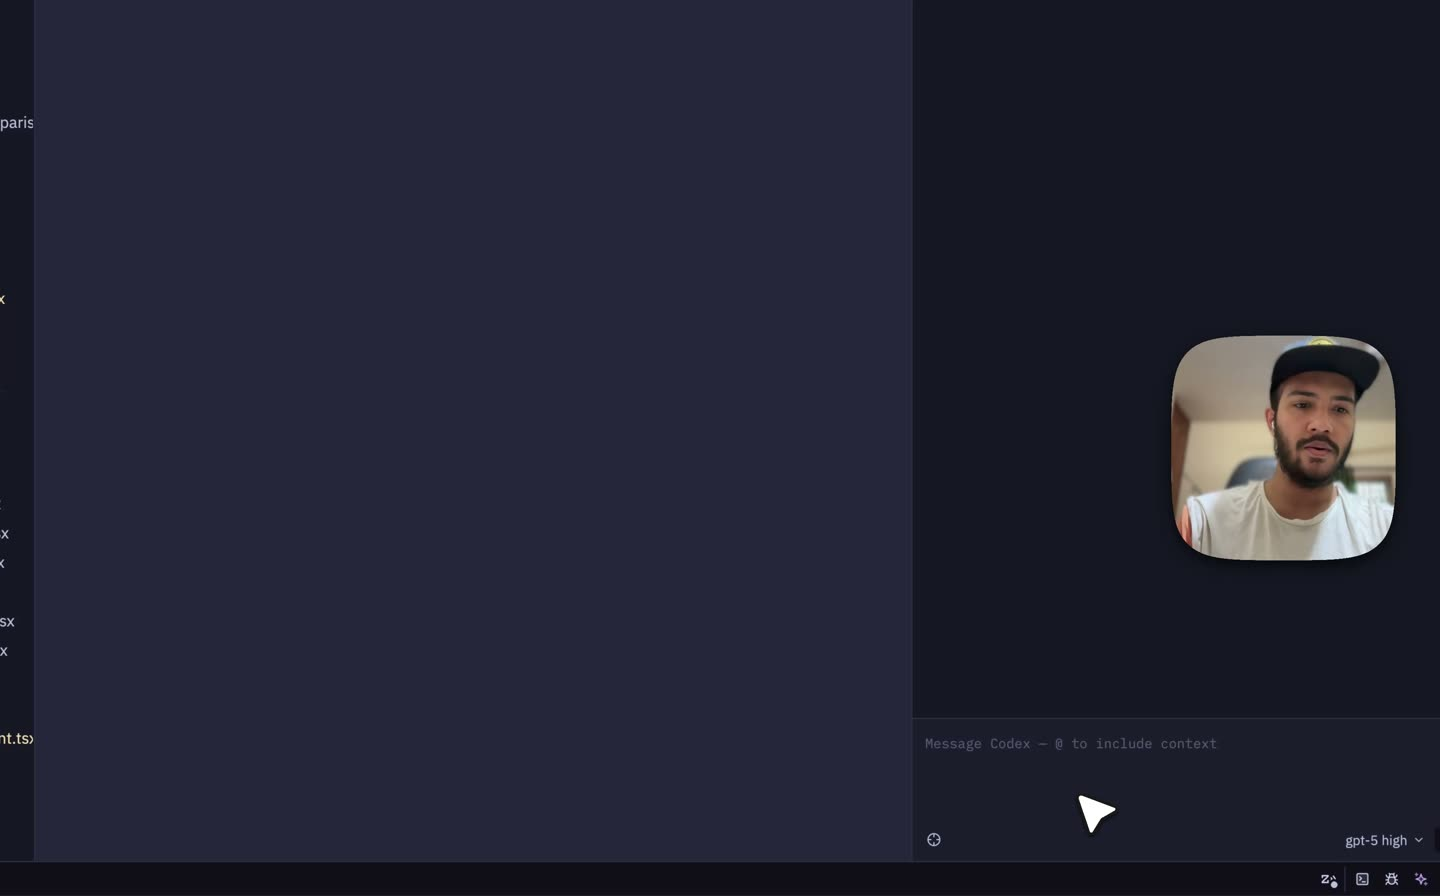
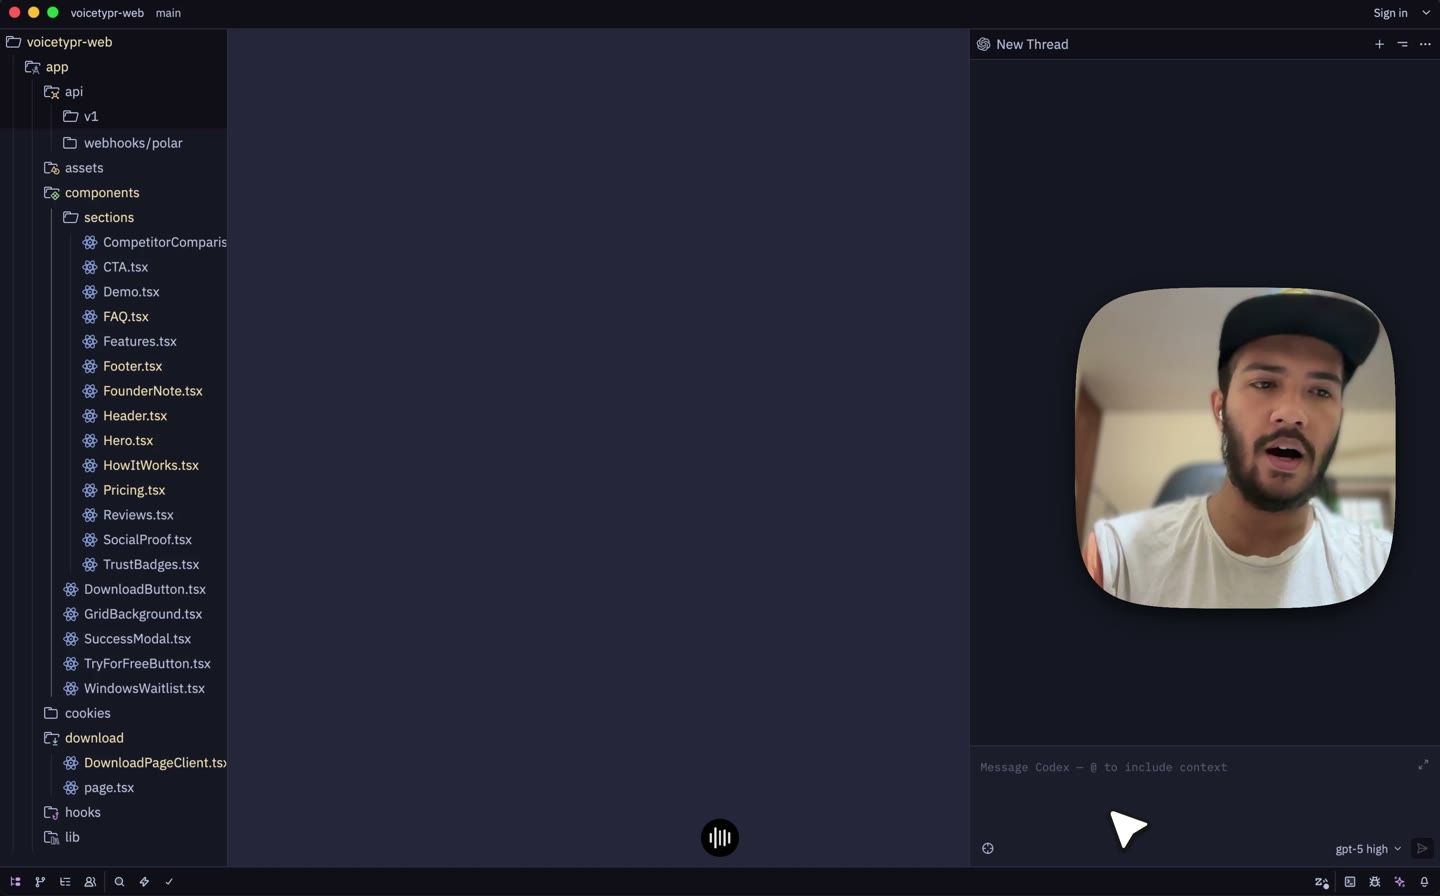
polish(landing): content accuracy + responsive fixes
Content fixes (verified against desktop v1.12.1 + SALES_SPRINT_PLAN.md):
- Refund window: 30-day → 7-day (matches original PricingCards.tsx and
  current store policy) across PricingCards, Pricing lede, FAQ answer
- Compare table: SuperWhisper price $120/yr → $85/yr (actual annual price),
  2-year cost +$190 → +$120, savings range $70–$450 → $35–$450 / $190–$450+ → $120–$550+
- CTA meta: remove invented '~28 MB' (real installers are 55–82 MB, size varies
  by platform); replace with 'free lifetime updates'
- Strip em-dashes from section ledes, Outcomes card body, Features card bodies,
  HowItWorks step descriptions (AI-slop cleanup)

Font: revert Fraunces → Instrument Serif (prototype original; better for
founder/productivity audience than chunky Fraunces). Drop Fraunces-specific
font-variation-settings + bumped weight CSS.

Demo video: remove autoPlay/loop, add native controls + 'Watch on YouTube'
link below for full walkthrough. Keep muted/playsInline/poster.

Responsive (mobile 390px):
- Hero h1: 54/96px fixed → clamp(40px, 9vw, 96px) fluid — fits without orphan
  wraps at 390px, scales smoothly to 96px at desktop
- Day-in-Life timeline: overflow-hidden + min-w-0 on bar parent to contain
  chunks that previously pushed body scrollWidth to 564px
- Compare table: overflow-x-auto wrapper + min-w-[640px] inner so 5-col grid
  scrolls horizontally within the dark card on mobile; reduced card padding
  p-10/14 → p-6/10/14 responsive
[…]

diff --git a/app/components/sections/Demo.tsx b/app/components/sections/Demo.tsx
@@ -2,12 +2,15 @@ export default function Demo() {
   return (
     <section className="ed-section pt-12 md:pt-16 pb-0">
       <div className="ed-container">
-        <div className="ed-eyebrow ed-eyebrow-center mb-6">see it work &middot; 20 seconds</div>
+        <div className="ed-eyebrow ed-eyebrow-center mb-6">
+          see it work &middot; 20 seconds
+        </div>
+
         <div className="mx-auto max-w-5xl">
           <div
-            className="relative aspect-[8/5] overflow-hidden rounded-[28px] border border-editorial-line p-4 md:p-5 shadow-[0_30px_60px_-30px_rgba(61,34,12,0.28),0_2px_8px_-2px_rgba(0,0,0,0.06),inset_0_1px_0_#fff]"
+            className="relative aspect-[8/5] overflow-hidden rounded-[28px] border border-editorial-line p-4 md:p-5 shadow-[0_30px_60px_-30px_rgba(0,0,0,0.18),0_2px_8px_-2px_rgba(0,0,0,0.06),inset_0_1px_0_#fff]"
             style={{
-              background: "linear-gradient(to bottom, #ffffff, #f5ede0)",
+              background: "linear-gradient(to bottom, #ffffff, #f3f3f0)",
             }}
           >
             {/* Accent glow */}
@@ -16,19 +19,18 @@ export default function Demo() {
               className="pointer-events-none absolute inset-x-0 -bottom-[25%] h-[85%]"
               style={{
                 background:
-                  "radial-gradient(ellipse at 50% 100%, color-mix(in oklab, var(--color-editorial-accent) 30%, transparent), transparent 65%)",
+                  "radial-gradient(ellipse at 50% 100%, color-mix(in oklab, var(--color-editorial-accent) 28%, transparent), transparent 65%)",
               }}
             />
 
             <video
-              autoPlay
+              controls
               muted
-              loop
               playsInline
-              preload="metadata"
+              preload="none"
               poster="/voicetypr-demo-poster.jpg"
               aria-label="VoiceTypr demo — press hotkey, speak, text pastes at the cursor"
-              className="relative h-full w-full rounded-[22px] border border-editorial-line object-cover shadow-[0_6px_14px_-6px_rgba(0,0,0,0.1)]"
+              className="relative h-full w-full rounded-[22px] border border-editorial-line bg-editorial-ink object-cover shadow-[0_6px_14px_-6px_rgba(0,0,0,0.1)]"
             >
               <source
                 src="https://assets.voicetypr.com/voicetypr-ph-2.mp4#t=0,20"
@@ -36,6 +38,19 @@ export default function Demo() {
               />
             </video>
           </div>
+
+          <p className="mt-5 text-center font-mono text-[11px] uppercase tracking-[0.14em] text-editorial-ink-3">
+            want the full walkthrough?{" "}
+            <a
+              href="https://youtu.be/L_yU879QbE4"
+              target="_blank"
+              rel="noopener noreferrer"
+              data-umami-event="demo-full-walkthrough-click"
+              className="text-editorial-ink-2 underline underline-offset-4 transition-colors hover:text-editorial-accent"
+            >
+              watch on youtube &rarr;
+            </a>
+          </p>
         </div>
       </div>
     </section>

diff --git a/app/components/sections/Compare.tsx b/app/components/sections/Compare.tsx
@@ -4,7 +4,7 @@ export default function Compare() {
   const rows: { c: string; v: string[] }[] = [
     {
       c: "Price",
-      v: ["$180 / yr", "$120 / yr", "$500 once + upgrades", "from $50 \u00B7 once"],
+      v: ["$180 / yr", "$85 / yr", "$500 once + upgrades", "from $50 \u00B7 once"],
     },
     {
       c: "Platforms",
@@ -30,13 +30,13 @@ export default function Compare() {
 
   const footer: { c: string; v: string[] } = {
     c: "2-year cost vs VoiceTypr",
-    v: ["+$310", "+$190", "+$450 (plus upgrades)", "baseline \u00B7 from $50"],
+    v: ["+$310", "+$120", "+$450 (plus upgrades)", "baseline \u00B7 from $50"],
   };
 
   return (
     <section className="ed-section">
       <div className="ed-container">
-        <div className="bg-editorial-ink text-white rounded-[28px] p-10 md:p-14">
+        <div className="bg-editorial-ink text-white rounded-[28px] p-6 sm:p-10 md:p-14">
           <div
             className="ed-eyebrow"
             style={{ color: "rgba(255,255,255,0.5)" }}
@@ -52,7 +52,8 @@ export default function Compare() {
           </p>
 
           {/* VS table */}
-          <div className="rounded-[18px] overflow-hidden border border-white/10 bg-white/[0.03] text-[14.5px] grid grid-cols-[1.4fr_1fr_1fr_1fr_1.15fr]">
+          <div className="overflow-x-auto -mx-4 sm:mx-0">
+            <div className="min-w-[640px] rounded-[18px] overflow-hidden border border-white/10 bg-white/[0.03] text-[14.5px] grid grid-cols-[1.4fr_1fr_1fr_1fr_1.15fr] mx-4 sm:mx-0">
             {/* Header row — uses display:contents so grid children align */}
             <div className="contents">
               {headers.map((h, i) => (
@@ -112,14 +113,15 @@ export default function Compare() {
                 {footer.v[3]}
               </div>
             </div>
+            </div>
           </div>
 
           {/* Savings summary */}
           <p className="text-center mt-6 text-sm text-white/70">
             After 1 year:{" "}
-            <strong className="text-[#9dd6af]">save $70&ndash;$450</strong>{" "}
+            <strong className="text-[#9dd6af]">save $35&ndash;$450</strong>{" "}
             &nbsp;&middot;&nbsp; After 2 years:{" "}
-            <strong className="text-[#9dd6af]">save $190&ndash;$450+</strong>
+            <strong className="text-[#9dd6af]">save $120&ndash;$550+</strong>
           </p>
         </div>
       </div>

diff --git a/app/components/sections/Features.tsx b/app/components/sections/Features.tsx
@@ -59,8 +59,8 @@ export default function Features() {
             </h3>
             <p className="text-editorial-ink-2 text-[14.5px] leading-[1.55]">
               English, Spanish, French, German, Italian, Portuguese, Dutch,
-              Swedish, Polish, Japanese, Mandarin, Hindi, Arabic, Korean &mdash;
-              and 85 more. Pick a model that supports your language; VoiceTypr
+              Swedish, Polish, Japanese, Mandarin, Hindi, Arabic, Korean,
+              plus 85 more. Pick a model that supports your language; VoiceTypr
               handles the rest.
             </p>
             <div className="mt-auto pt-5">
@@ -102,7 +102,7 @@ export default function Features() {
               Multiple models, your call.
             </h3>
             <p className="text-editorial-ink-2 text-[14.5px] leading-[1.55]">
-              Whisper base, large-v3, and 6×-faster turbo — plus Parakeet on Mac. Pick per session.
+              Whisper base, large-v3, and 6×-faster turbo. Plus Parakeet on Mac. Pick per session.
             </p>
             <div className="mt-auto pt-5">
               <div className="flex flex-col gap-1 font-mono text-xs text-editorial-ink-2 leading-[1.8]">
@@ -127,7 +127,7 @@ export default function Features() {
               4 AI presets, on tap.
             </h3>
             <p className="text-editorial-ink-2 text-[14.5px] leading-[1.55]">
-              Default, Prompts, Email, Commit &mdash; same voice, smarter tone out.
+              Default, Prompts, Email, Commit. Same voice, smarter tone out.
               Powered by Gemini, OpenAI, or any OpenAI-compatible API (Groq, Ollama).
             </p>
             <div className="mt-auto pt-5">
@@ -156,8 +156,8 @@ export default function Features() {
             </h3>
             <p className="text-editorial-ink-2 text-[14.5px] leading-[1.55]">
               ChatGPT, Claude, Cursor, VS Code, Notion, Slack, Linear, Gmail,
-              Discord, X, Figma, iMessage. Native paste &mdash; not a browser
-              extension, not a Chrome tab.
+              Discord, X, Figma, iMessage. Native paste, not a browser
+              extension. Not a Chrome tab.
             </p>
             <div className="mt-auto pt-5">
               <div className="flex flex-wrap gap-2">
@@ -196,7 +196,7 @@ export default function Features() {
               Searchable, exportable.
             </h3>
             <p className="text-editorial-ink-2 text-[14.5px] leading-[1.55]">
-              Everything you&apos;ve dictated &mdash; search, copy, export to
+              Everything you&apos;ve dictated. Search, copy, export to
               JSON.
             </p>
             <div className="mt-auto pt-5">

diff --git a/app/components/sections/Infographics.tsx b/app/components/sections/Infographics.tsx
@@ -187,11 +187,11 @@ function DayInLife() {
         <div className="text-right font-mono text-xs font-medium text-editorial-ink-3">
           TYPING
         </div>
-        <div className="h-8 rounded-lg bg-editorial-surface-2 flex items-center gap-1.5 px-1">
+        <div className="h-8 min-w-0 overflow-hidden rounded-lg bg-editorial-surface-2 flex items-center gap-1.5 px-1">
           {typingDay.map((c, i) => (
             <div
               key={i}
-              className="h-[22px] rounded-md px-2.5 flex items-center text-[11.5px] font-medium whitespace-nowrap overflow-hidden bg-[#d8cfbb] text-editorial-ink"
+              className="h-[22px] min-w-0 rounded-md px-2 sm:px-2.5 flex items-center text-[11px] sm:text-[11.5px] font-medium whitespace-nowrap overflow-hidden text-ellipsis bg-[#d8cfbb] text-editorial-ink"
               style={{ width: `${c.w}%` }}
             >
               {c.label}
@@ -203,18 +203,18 @@ function DayInLife() {
         <div className="text-right font-mono text-xs font-medium text-editorial-ink-3">
           VOICE
         </div>
-        <div className="h-8 rounded-lg bg-editorial-surface-2 flex items-center gap-1.5 px-1">
+        <div className="h-8 min-w-0 overflow-hidden rounded-lg bg-editorial-surface-2 flex items-center gap-1.5 px-1">
           {voiceDay.map((c, i) => (
             <div
               key={i}
-              className="h-[22px] rounded-md px-2.5 flex items-center text-[11.5px] font-medium whitespace-nowrap overflow-hidden bg-editorial-accent text-white"
+              className="h-[22px] min-w-0 rounded-md px-2 sm:px-2.5 flex items-center text-[11px] sm:text-[11.5px] font-medium whitespace-nowrap overflow-hidden text-ellipsis bg-editorial-accent text-white"
               style={{ width: `${c.w}%` }}
             >
               {c.label}
             </div>
           ))}
           <div
-            className="h-[22px] rounded-md px-2.5 flex items-center text-[11.5px] font-medium whitespace-nowrap overflow-hidden border border-dashed border-editorial-line-2 text-editorial-ink-3 bg-transparent"
+            className="h-[22px] min-w-0 rounded-md px-2 sm:px-2.5 flex items-center text-[11px] sm:text-[11.5px] font-medium whitespace-nowrap overflow-hidden text-ellipsis border border-dashed border-editorial-line-2 text-editorial-ink-3 bg-transparent"
             style={{ width: "69%" }}
           >
             &#8593; reclaimed: 93 min

diff --git a/app/globals.css b/app/globals.css
@@ -233,7 +233,6 @@ html {
 .landing-editorial h5 {
   font-family: var(--font-serif), Georgia, serif;
   font-weight: 400;
-  font-variation-settings: "opsz" 120, "SOFT" 50;
   letter-spacing: -0.01em;
   color: var(--color-editorial-ink);
 }
@@ -245,13 +244,6 @@ html {
   color: var(--color-editorial-accent);
 }
 
-
-/* Display headlines a touch heavier + tighter for Fraunces confidence */
-.landing-editorial h1,
-.landing-editorial h2 {
-  font-weight: 500;
-  letter-spacing: -0.035em;
-}
 /* Editorial section & container helpers */
 .landing-editorial .ed-section {
   padding: 88px 0;

diff --git a/components/PricingCards.tsx b/components/PricingCards.tsx
@@ -1,5 +1,6 @@
 "use client";
 
+
 import { BASE_PRICES, formatPrice, type PlanKey } from "@/lib/pricing";
 import { ArrowRight } from "lucide-react";
 
@@ -34,7 +35,7 @@ const plans: Plan[] = [
       "Every formatting mode",
       "Lifetime free updates",
       "macOS 13+ & Windows 10+",
-      "30-day money-back guarantee",
+      "7-day money-back guarantee",
     ],
   },
   {
@@ -51,7 +52,7 @@ const plans: Plan[] = [
       "Priority email support",
       "Lifetime free updates",
       "macOS 13+ & Windows 10+",
-      "30-day money-back guarantee",
+      "7-day money-back guarantee",
     ],
   },
   {
@@ -66,7 +67,7 @@ const plans: Plan[] = [
       "Early access to new features",
       "Lifetime free updates",
       "macOS 13+ & Windows 10+",
-      "30-day money-back guarantee",
+      "7-day money-back guarantee",
     ],
   },
 ];

diff --git a/app/layout.tsx b/app/layout.tsx
@@ -1,5 +1,5 @@
 import { Metadata } from "next";
-import { Geist, Geist_Mono, Fraunces } from "next/font/google";
+import { Geist, Geist_Mono, Instrument_Serif } from "next/font/google";
 import type { ReactNode } from "react";
 import { Suspense } from "react";
 
@@ -23,10 +23,10 @@ const fontMono = Geist_Mono({
   variable: "--font-mono",
 });
 
-const fontSerif = Fraunces({
+const fontSerif = Instrument_Serif({
   subsets: ["latin"],
+  weight: "400",
   style: ["normal", "italic"],
-  weight: ["400", "500", "600"],
   variable: "--font-serif",
 });
 

diff --git a/app/components/sections/Hero.tsx b/app/components/sections/Hero.tsx
@@ -10,7 +10,7 @@ export default function HeroSection() {
             v1.12 &middot; lifetime &middot; open source
           </span>
 
-          <h1 className="mt-5 font-serif text-[54px] leading-[0.98] md:text-[96px] tracking-[-0.02em]">
+          <h1 className="mt-5 font-serif text-[clamp(40px,9vw,96px)] leading-[0.98] tracking-[-0.02em]">
             Talk like a human.
             <br />
             Get text like a <em>pro.</em>
@@ -21,7 +21,7 @@ export default function HeroSection() {
               Clean, paste-ready text in any app, on Mac or Windows.
             </strong>{" "}
             Talk to Claude, draft a Slack reply, write that PR description
-            you&rsquo;ve been dodging &mdash; fully local, ~5&times; faster than
+              you&rsquo;ve been dodging. Fully local, ~5&times; faster than
             typing.
           </p>
 

diff --git a/app/components/sections/HowItWorks.tsx b/app/components/sections/HowItWorks.tsx
@@ -9,7 +9,7 @@ export default function HowItWorks() {
         <p className="text-[18px] text-editorial-ink-2 max-w-[560px] mt-4 mb-12">
           No cloud account. No onboarding wizard. No &ldquo;we&apos;ll email
           you when it&apos;s ready.&rdquo; Download, pick a model, start
-          talking — in about 90 seconds.
+          talking. About 90 seconds total.
         </p>
 
         <div className="grid grid-cols-1 sm:grid-cols-2 lg:grid-cols-4 gap-5">
@@ -67,7 +67,7 @@ export default function HowItWorks() {
               Set your hotkey
             </h3>
             <p className="text-editorial-ink-2 text-sm leading-[1.55] mb-4">
-              Toggle or push-to-talk. Works globally — any app, any text field,
+              Toggle or push-to-talk. Works globally in any app, any text field,
               any time.
             </p>
             <div className="mt-auto min-h-[92px] flex items-end">

diff --git a/app/components/sections/Pricing.tsx b/app/components/sections/Pricing.tsx
@@ -23,7 +23,7 @@ export default async function Pricing() {
         <p className="mb-12 max-w-[560px] text-[17px] leading-relaxed text-editorial-ink-2">
           No subscription. No update locks. No surprise email in 2027 saying
           we&rsquo;re being acquired and prices are going up. Try free for 3
-          days — no card required.
+          days. No card required.
         </p>
 
         <div className="mx-auto max-w-5xl">
@@ -35,7 +35,7 @@ export default async function Pricing() {
         </div>
 
         <p className="mt-10 text-center font-mono text-[11px] uppercase tracking-[0.14em] text-editorial-ink-3">
-          one payment · all future updates · 30-day money-back guarantee
+          one payment · all future updates · 7-day money-back guarantee
         </p>
       </div>
     </section>

diff --git a/app/components/sections/CTA.tsx b/app/components/sections/CTA.tsx
@@ -50,7 +50,7 @@ export default function CTA() {
             </div>
 
             <div className="mt-4 font-mono text-xs uppercase tracking-[0.14em] text-editorial-ink-3">
-              macOS 13+ · Windows 10+ · ~ 28 MB
+              macOS 13+ · Windows 10+ · free lifetime updates
             </div>
           </div>
         </div>

diff --git a/app/components/sections/FAQ.tsx b/app/components/sections/FAQ.tsx
@@ -45,7 +45,7 @@ const faqs = [
   },
   {
     q: "Refunds?",
-    a: "30 days, no questions. Email [email redacted]. We refund first, ask questions after (if at all).",
+    a: "7 days, no questions. Email [email redacted]. We refund first, ask questions after (if at all).",
   },
 ];
 